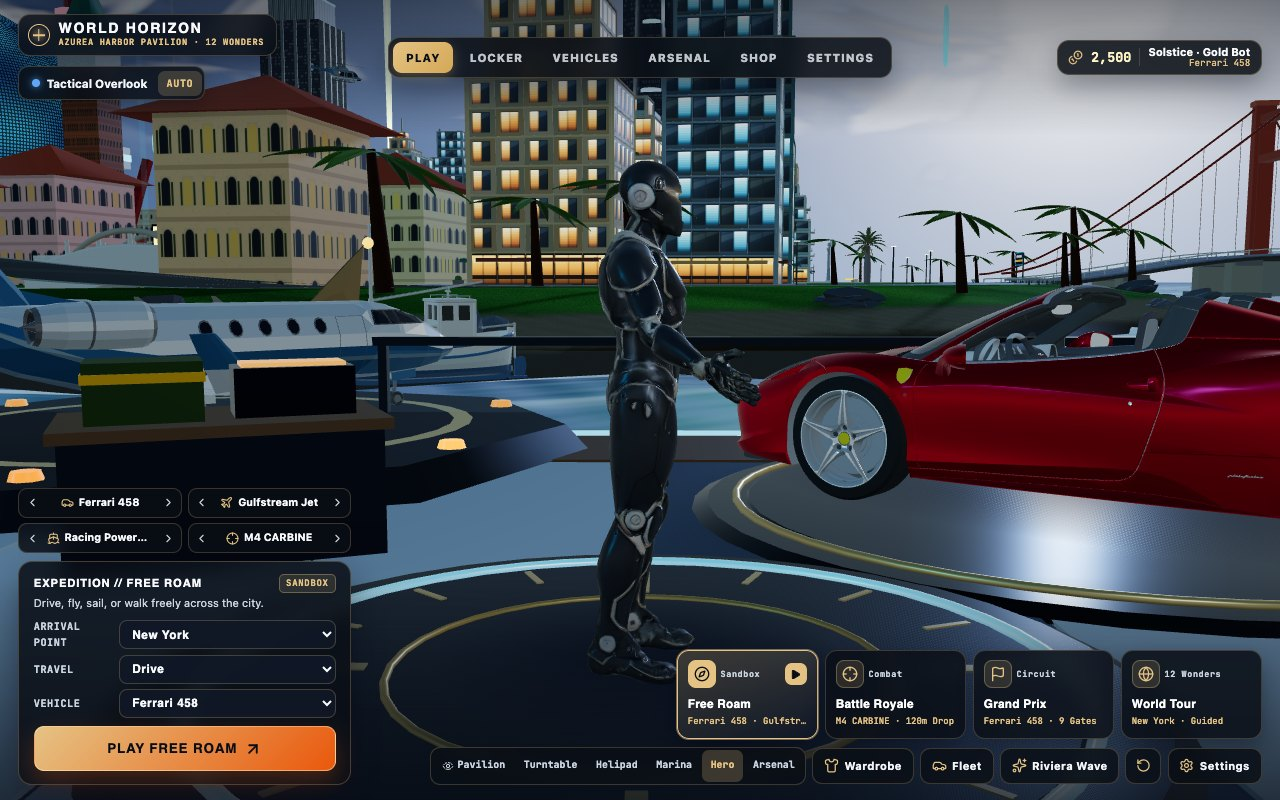
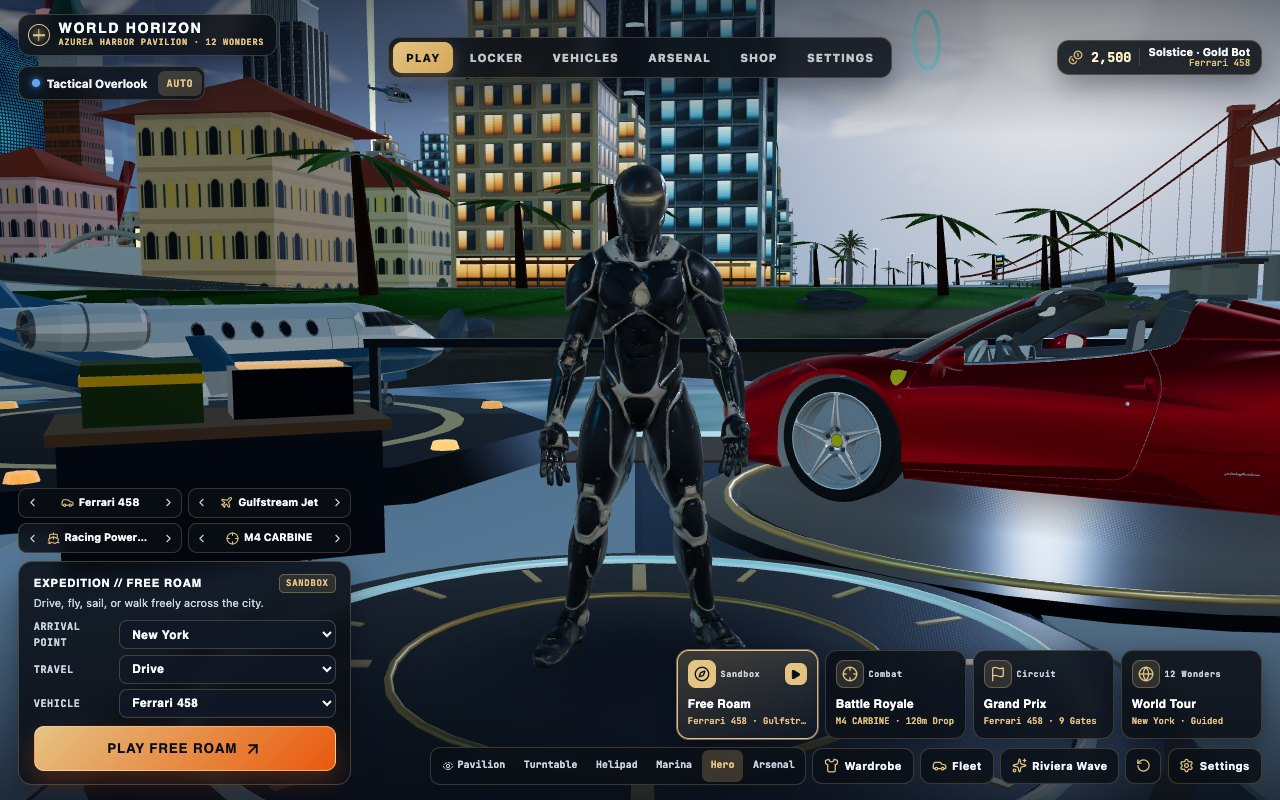
Fix Mixamo facing alignment and retarget mocap idle/walk/run/dance clips onto all Tripo rigs

diff --git a/src/game/humanoid.ts b/src/game/humanoid.ts
@@ -4,25 +4,13 @@ interface Joint {
   bone: THREE.Bone;
   rest: THREE.Quaternion;
   basis: THREE.Quaternion;
-}
-
-interface LegRig {
-  hip: Joint;
-  knee: Joint;
-  ankle: Joint;
-  home: THREE.Vector3;
-  upperLength: number;
-  lowerLength: number;
-}
-
-interface GroundMotion {
-  x: number;
-  z: number;
-  heightAt: (x: number, z: number) => number;
+  tPoseRest: THREE.Quaternion;
+  tPoseBasis: THREE.Quaternion;
 }
 
 export interface HumanoidRig {
   wrapper: THREE.Group;
+  model: THREE.Object3D;
   joints: Record<string, Joint>;
   legs: LegRig[];
   gait: number;
@@ -108,9 +96,24 @@ export function weldSmoothNormals(model: THREE.Object3D) {
   });
 }
 
+interface LegRig {
+  hip: Joint;
+  knee: Joint;
+  ankle: Joint;
+  home: THREE.Vector3;
+  upperLength: number;
+  lowerLength: number;
+}
+
+interface GroundMotion {
+  x: number;
+  z: number;
+  heightAt: (x: number, z: number) => number;
+}
+
 export function createHumanoidRig(wrapper: THREE.Group, model: THREE.Object3D, animations: THREE.AnimationClip[] = []): HumanoidRig {
   const rig: HumanoidRig = {
-    wrapper, joints: {}, gait: 0, aim: 0, air: 0, swim: 0, stroke: 0,
+    wrapper, model, joints: {}, gait: 0, aim: 0, air: 0, swim: 0, stroke: 0,
     emoteElapsed: 0, emoteBlend: 0, clips: {}, legs: [],
   };
   weldSmoothNormals(model);
@@ -153,15 +156,43 @@ export function createHumanoidRig(wrapper: THREE.Group, model: THREE.Object3D, a
     rig.mixer = new THREE.AnimationMixer(model);
     rig.clips.emote = rig.mixer.clipAction(emote).setEffectiveWeight(0).play();
   }
-  // Use the same anatomical axes on glTF skeletons whose local bone axes differ.
+  // Snapshot T-pose quaternions & world bases for retargeting before relaxing A/T-pose arms.
   wrapper.getWorldQuaternion(root).invert();
+  const tPoseMap = new Map<string, { rest: THREE.Quaternion; basis: THREE.Quaternion }>();
+  const savedArmQuats = new Map<string, THREE.Quaternion>();
+  for (const side of ['Left', 'Right']) {
+    const arm = bones[side + 'Arm'];
+    const elbow = bones[side + 'ForeArm'];
+    if (!arm || !elbow) continue;
+    savedArmQuats.set(side + 'Arm', arm.quaternion.clone());
+    elbow.getWorldPosition(armDirection).sub(arm.getWorldPosition(new THREE.Vector3())).applyQuaternion(root).normalize();
+    const sign = Math.sign(armDirection.x) || (side === 'Left' ? 1 : -1);
+    const raise = Math.atan2(-armDirection.y, Math.abs(armDirection.x));
+    const parentBasis = arm.parent!.getWorldQuaternion(new THREE.Quaternion()).premultiply(root);
+    correction.setFromEuler(anatomical.set(0, 0, sign * raise));
+    rootInverse.copy(parentBasis).invert();
+    arm.quaternion.premultiply(rootInverse.multiply(correction).multiply(parentBasis));
+  }
+  wrapper.updateWorldMatrix(true, true);
+  for (const [name, bone] of Object.entries(bones)) {
+    tPoseMap.set(name, {
+      rest: bone.quaternion.clone(),
+      basis: bone.getWorldQuaternion(new THREE.Quaternion()).premultiply(root),
+    });
+  }
+  for (const [key, q] of savedArmQuats) {
+    bones[key].quaternion.copy(q);
+  }
+  wrapper.updateWorldMatrix(true, true);
+
+  // Drop A/T-pose arms into a relaxed, natural standing hang.
   for (const side of ['Left', 'Right']) {
     const arm = bones[side + 'Arm'];
     const elbow = bones[side + 'ForeArm'];
     if (!arm || !elbow) continue;
     elbow.getWorldPosition(armDirection).sub(arm.getWorldPosition(new THREE.Vector3())).applyQuaternion(root).normalize();
-    const sign = Math.sign(armDirection.x);
-    const drop = Math.max(0, Math.acos(THREE.MathUtils.clamp(-armDirection.y, -1, 1)) - 0.11);
+    const sign = Math.sign(armDirection.x) || (side === 'Left' ? 1 : -1);
+    const drop = Math.max(0, Math.acos(THREE.MathUtils.clamp(-armDirection.y, -1, 1)) - 0.16);
     const parentBasis = arm.parent!.getWorldQuaternion(new THREE.Quaternion()).premultiply(root);
     correction.setFromEuler(anatomical.set(0, 0, -sign * drop));
     rootInverse.copy(parentBasis).invert();
@@ -169,7 +200,14 @@ export function createHumanoidRig(wrapper: THREE.Group, model: THREE.Object3D, a
   }
   wrapper.updateWorldMatrix(true, true);
   for (const [name, bone] of Object.entries(bones)) {
-    rig.joints[name] = { bone, rest: bone.quaternion.clone(), basis: bone.getWorldQuaternion(new THREE.Quaternion()).premultiply(root) };
+    const tp = tPoseMap.get(name)!;
+    rig.joints[name] = {
+      bone,
+      rest: bone.quaternion.clone(),
+      basis: bone.getWorldQuaternion(new THREE.Quaternion()).premultiply(root),
+      tPoseRest: tp.rest,
+      tPoseBasis: tp.basis,
+    };
   }
   for (const side of ['Left', 'Right']) {
     const hip = rig.joints[side + 'UpLeg'];
@@ -185,6 +223,86 @@ export function createHumanoidRig(wrapper: THREE.Group, model: THREE.Object3D, a
     });
   }
   return rig;
+}
+
+const retargetSrcDelta = new THREE.Quaternion();
+const retargetWorldDelta = new THREE.Quaternion();
+const retargetTgtQuat = new THREE.Quaternion();
+const retargetSrcRestInv = new THREE.Quaternion();
+const retargetSrcBasisInv = new THREE.Quaternion();
+const retargetTgtBasisInv = new THREE.Quaternion();
+
+/**
+ * Retargets Mixamo skeletal AnimationClips (idle, walk, run, SambaDance) from a
+ * source HumanoidRig onto any Mixamo-rigged target HumanoidRig using T-pose world-space deltas.
+ */
+export function retargetMixamoClips(
+  targetRig: HumanoidRig,
+  sourceRig: HumanoidRig,
+  sourceClips: THREE.AnimationClip[],
+  names: string[] = ['idle', 'walk', 'run', 'SambaDance']
+) {
+  if (!sourceClips.length || !Object.keys(targetRig.joints).length) return;
+  const wanted = new Set(names.map((n) => n.toLowerCase()));
+  const built: THREE.AnimationClip[] = [];
+
+  for (const srcClip of sourceClips) {
+    const clipKey = srcClip.name.toLowerCase();
+    const matched = names.find((n) => clipKey === n.toLowerCase() || clipKey.endsWith('_' + n.toLowerCase()));
+    if (!matched || !wanted.has(matched.toLowerCase())) continue;
+
+    const newTracks: THREE.KeyframeTrack[] = [];
+    for (const track of srcClip.tracks) {
+      if (!track.name.endsWith('.quaternion')) continue;
+      const rawBone = track.name.split('.')[0].replace(/^mixamorig:?/, '').replace(/[.]/g, '');
+      const srcJoint = sourceRig.joints[rawBone];
+      const tgtJoint = targetRig.joints[rawBone];
+      if (!srcJoint || !tgtJoint) continue;
+
+      retargetSrcRestInv.copy(srcJoint.tPoseRest).invert();
+      retargetSrcBasisInv.copy(srcJoint.tPoseBasis).invert();
+      retargetTgtBasisInv.copy(tgtJoint.tPoseBasis).invert();
+
+      const times = track.times;
+      const values = new Float32Array(track.values.length);
+      for (let i = 0; i < times.length; i++) {
+        const o = i * 4;
+        retargetSrcDelta.set(track.values[o], track.values[o + 1], track.values[o + 2], track.values[o + 3]);
+        retargetSrcDelta.premultiply(retargetSrcRestInv);
+        retargetWorldDelta.copy(srcJoint.tPoseBasis).multiply(retargetSrcDelta).multiply(retargetSrcBasisInv);
+        retargetTgtQuat.copy(retargetTgtBasisInv).multiply(retargetWorldDelta).multiply(tgtJoint.tPoseBasis);
+        retargetTgtQuat.premultiply(tgtJoint.tPoseRest).normalize();
+        values[o] = retargetTgtQuat.x;
+        values[o + 1] = retargetTgtQuat.y;
+        values[o + 2] = retargetTgtQuat.z;
+        values[o + 3] = retargetTgtQuat.w;
+      }
+      newTracks.push(new THREE.QuaternionKeyframeTrack(`${tgtJoint.bone.uuid}.quaternion`, times, values));
+    }
+
+    if (newTracks.length > 0) {
+      built.push(new THREE.AnimationClip(matched, srcClip.duration, newTracks));
+    }
+  }
+
+  if (!built.length) return;
+  if (!targetRig.mixer) {
+    targetRig.mixer = new THREE.AnimationMixer(targetRig.model);
+  }
+  for (const clip of built) {
+    const lower = clip.name.toLowerCase();
+    if (lower === 'idle' || lower === 'walk' || lower === 'run') {
+      if (!targetRig.clips[lower]) {
+        const action = targetRig.mixer.clipAction(clip).setEffectiveWeight(lower === 'idle' ? 1 : 0).play();
+        if (lower !== 'idle') action.time = ((targetRig.wrapper.id % 13) / 13) * clip.duration;
+        targetRig.clips[lower] = action;
+      }
+    } else if (lower === 'sambadance' || lower === 'agree') {
+      if (!targetRig.clips.emote) {
+        targetRig.clips.emote = targetRig.mixer.clipAction(clip).setEffectiveWeight(0).play();
+      }
+    }
+  }
 }
 
 const rigOrigin = new THREE.Vector3();
@@ -297,10 +415,11 @@ export function animateHumanoid(rig: HumanoidRig, motion: Pose) {
   const idleStance = (1 - rig.gait) * groundBlend * (1 - rig.aim);
   const response = 1 - Math.exp(-20 * dt);
 
+  const useEmoteClip = Boolean(rig.clips.emote && (motion.emoteStyle === undefined || motion.emoteStyle === 'DANCE'));
   if (animated) {
     const emoteClip = rig.clips.emote;
-    const clipEmoteW = emoteClip ? emoteWeight : 0;
-    rig.clips.idle!.setEffectiveWeight((1 - rig.gait) * (1 - clipEmoteW));
+    const clipEmoteW = useEmoteClip ? emoteWeight : 0;
+    rig.clips.idle!.setEffectiveWeight((1 - rig.gait) * (1 - emoteWeight));
     rig.clips.walk!.setEffectiveWeight(rig.gait * (1 - run)).setEffectiveTimeScale(
       (reverse ? -1 : 1) * THREE.MathUtils.clamp(speed / 1.5, 0.56, 1.9));
     rig.clips.run!.setEffectiveWeight(rig.gait * run).setEffectiveTimeScale(THREE.MathUtils.clamp(speed / 5.1, 0.7, 1.4));
@@ -315,11 +434,11 @@ export function animateHumanoid(rig: HumanoidRig, motion: Pose) {
       }
     }
     rig.mixer!.update(dt);
-  } else if (rig.mixer && rig.clips.emote && emoteWeight > 0.004) {
+  } else if (rig.mixer && rig.clips.emote && useEmoteClip && emoteWeight > 0.004) {
     rig.clips.emote.setEffectiveWeight(emoteWeight);
     rig.mixer.update(dt);
   }
-  const procEmoteWeight = rig.clips.emote ? 0 : emoteWeight;
+  const procEmoteWeight = useEmoteClip ? 0 : emoteWeight;
   const authored = !animated || center > 0.13;
   const baseBlend = authored ? response : 0;
   const overlay = Math.max(baseBlend, rig.air, landing * 0.85, procEmoteWeight);

diff --git a/src/components/Vehicles.tsx b/src/components/Vehicles.tsx
@@ -16,7 +16,7 @@ import { crossesRaceGate } from '../game/grandPrix';
 import { soundEngine } from '../game/soundEngine';
 import { createShadowTexture, createLimestonePBR, createSkyscraperPBR } from './Textures';
 import { REPAIR_BAY_COORDS } from './World';
-import { animateHumanoid, createHumanoidRig, strideDistance, type HumanoidRig } from '../game/humanoid';
+import { animateHumanoid, createHumanoidRig, retargetMixamoClips, strideDistance, type HumanoidRig } from '../game/humanoid';
 import { computeChassisWeightTransfer, rearSlip, shoreReturn, surfaceStep, suspensionStep } from '../game/motion';
 import { injureBot, injurePlayer } from '../game/combat';
 import { blastWorld, damageWorld, emitEnvironment, traceGround, traceWorld, type WorldHit } from '../game/worldDamage';
@@ -1330,6 +1330,18 @@ export function VehicleDirector({ onHudUpdate }: Props) {
       });
     });
 
+    let xbotSource: { rig: HumanoidRig; clips: THREE.AnimationClip[] } | null = null;
+    let michelleSource: { rig: HumanoidRig; clips: THREE.AnimationClip[] } | null = null;
+
+    const applyMixamoRetarget = (targetRig: HumanoidRig) => {
+      if (xbotSource && (!targetRig.clips.idle || !targetRig.clips.walk || !targetRig.clips.run)) {
+        retargetMixamoClips(targetRig, xbotSource.rig, xbotSource.clips, ['idle', 'walk', 'run']);
+      }
+      if (michelleSource && !targetRig.clips.emote) {
+        retargetMixamoClips(targetRig, michelleSource.rig, michelleSource.clips, ['SambaDance']);
+      }
+    };
+
     for (const [archetype, spec] of Object.entries(COASTAL_CHARACTERS)) {
       gltfLoader.load(spec.url, (gltf) => {
         if (disposed || !soldierMountRef.current) return;
@@ -1366,14 +1378,31 @@ export function VehicleDirector({ onHudUpdate }: Props) {
             if (finish.name === 'Reflective Safety Trim') materials.accents.push(finish);
           }
         });
+        const lArm = model.getObjectByName('mixamorig:LeftArm') ?? model.getObjectByName('mixamorigLeftArm') ?? model.getObjectByName('LeftArm');
+        const rArm = model.getObjectByName('mixamorig:RightArm') ?? model.getObjectByName('mixamorigRightArm') ?? model.getObjectByName('RightArm');
+        let rotY = 0;
+        if (lArm && rArm) {
+          model.updateMatrixWorld(true);
+          const lr = lArm.getWorldPosition(new THREE.Vector3()).sub(rArm.getWorldPosition(new THREE.Vector3()));
+          if (Math.hypot(lr.x, lr.z) > 0.05) {
+            rotY = Math.atan2(lr.z, lr.x);
+          }
+        }
         const bounds = new THREE.Box3().setFromObject(model);
         const height = bounds.max.y - bounds.min.y;
-        autoGroundAndCenter(model, spec.height / Math.max(0.2, height));
+        autoGroundAndCenter(model, spec.height / Math.max(0.2, height), rotY);
         const wrapper = new THREE.Group();
         wrapper.add(model);
         soldierMountRef.current.add(wrapper);
-        coastalRigs.current.set(archetype as CoastalCharacter, createHumanoidRig(wrapper, model, gltf.animations));
+        const rig = createHumanoidRig(wrapper, model, gltf.animations);
+        coastalRigs.current.set(archetype as CoastalCharacter, rig);
         coastalMaterials.current.set(archetype as CoastalCharacter, materials);
+        if (archetype === 'XBOT_CYBER') {
+          xbotSource = { rig, clips: gltf.animations };
+          for (const existingRig of coastalRigs.current.values()) applyMixamoRetarget(existingRig);
+        } else {
+          applyMixamoRetarget(rig);
+        }
         applyCharacterCustomization();
       });
     }
@@ -1490,6 +1519,8 @@ export function VehicleDirector({ onHudUpdate }: Props) {
 
       michelleBodyMatsRef.current = bodyMats;
       michelleRigRef.current = createHumanoidRig(wrapper, model, gltf.animations);
+      michelleSource = { rig: michelleRigRef.current, clips: gltf.animations };
+      for (const existingRig of coastalRigs.current.values()) applyMixamoRetarget(existingRig);
 
       applyCharacterCustomization();
     });

diff --git a/tripo-studio/index.html b/tripo-studio/index.html
@@ -193,6 +193,17 @@
       loader.load(url, (gltf) => {
         if (currentObj) scene.remove(currentObj);
         const model = gltf.scene;
+        const lArm = model.getObjectByName('mixamorig:LeftArm') || model.getObjectByName('LeftArm');
+        const rArm = model.getObjectByName('mixamorig:RightArm') || model.getObjectByName('RightArm');
+        if (lArm && rArm) {
+          model.updateMatrixWorld(true);
+          const lPos = lArm.getWorldPosition(new THREE.Vector3());
+          const rPos = rArm.getWorldPosition(new THREE.Vector3());
+          const lr = lPos.sub(rPos);
+          if (Math.hypot(lr.x, lr.z) > 0.05) {
+            model.rotation.y += Math.atan2(lr.z, lr.x);
+          }
+        }
         const box = new THREE.Box3().setFromObject(model);
         const h = Math.max(0.1, box.max.y - box.min.y);
         const s = 1.8 / h;
